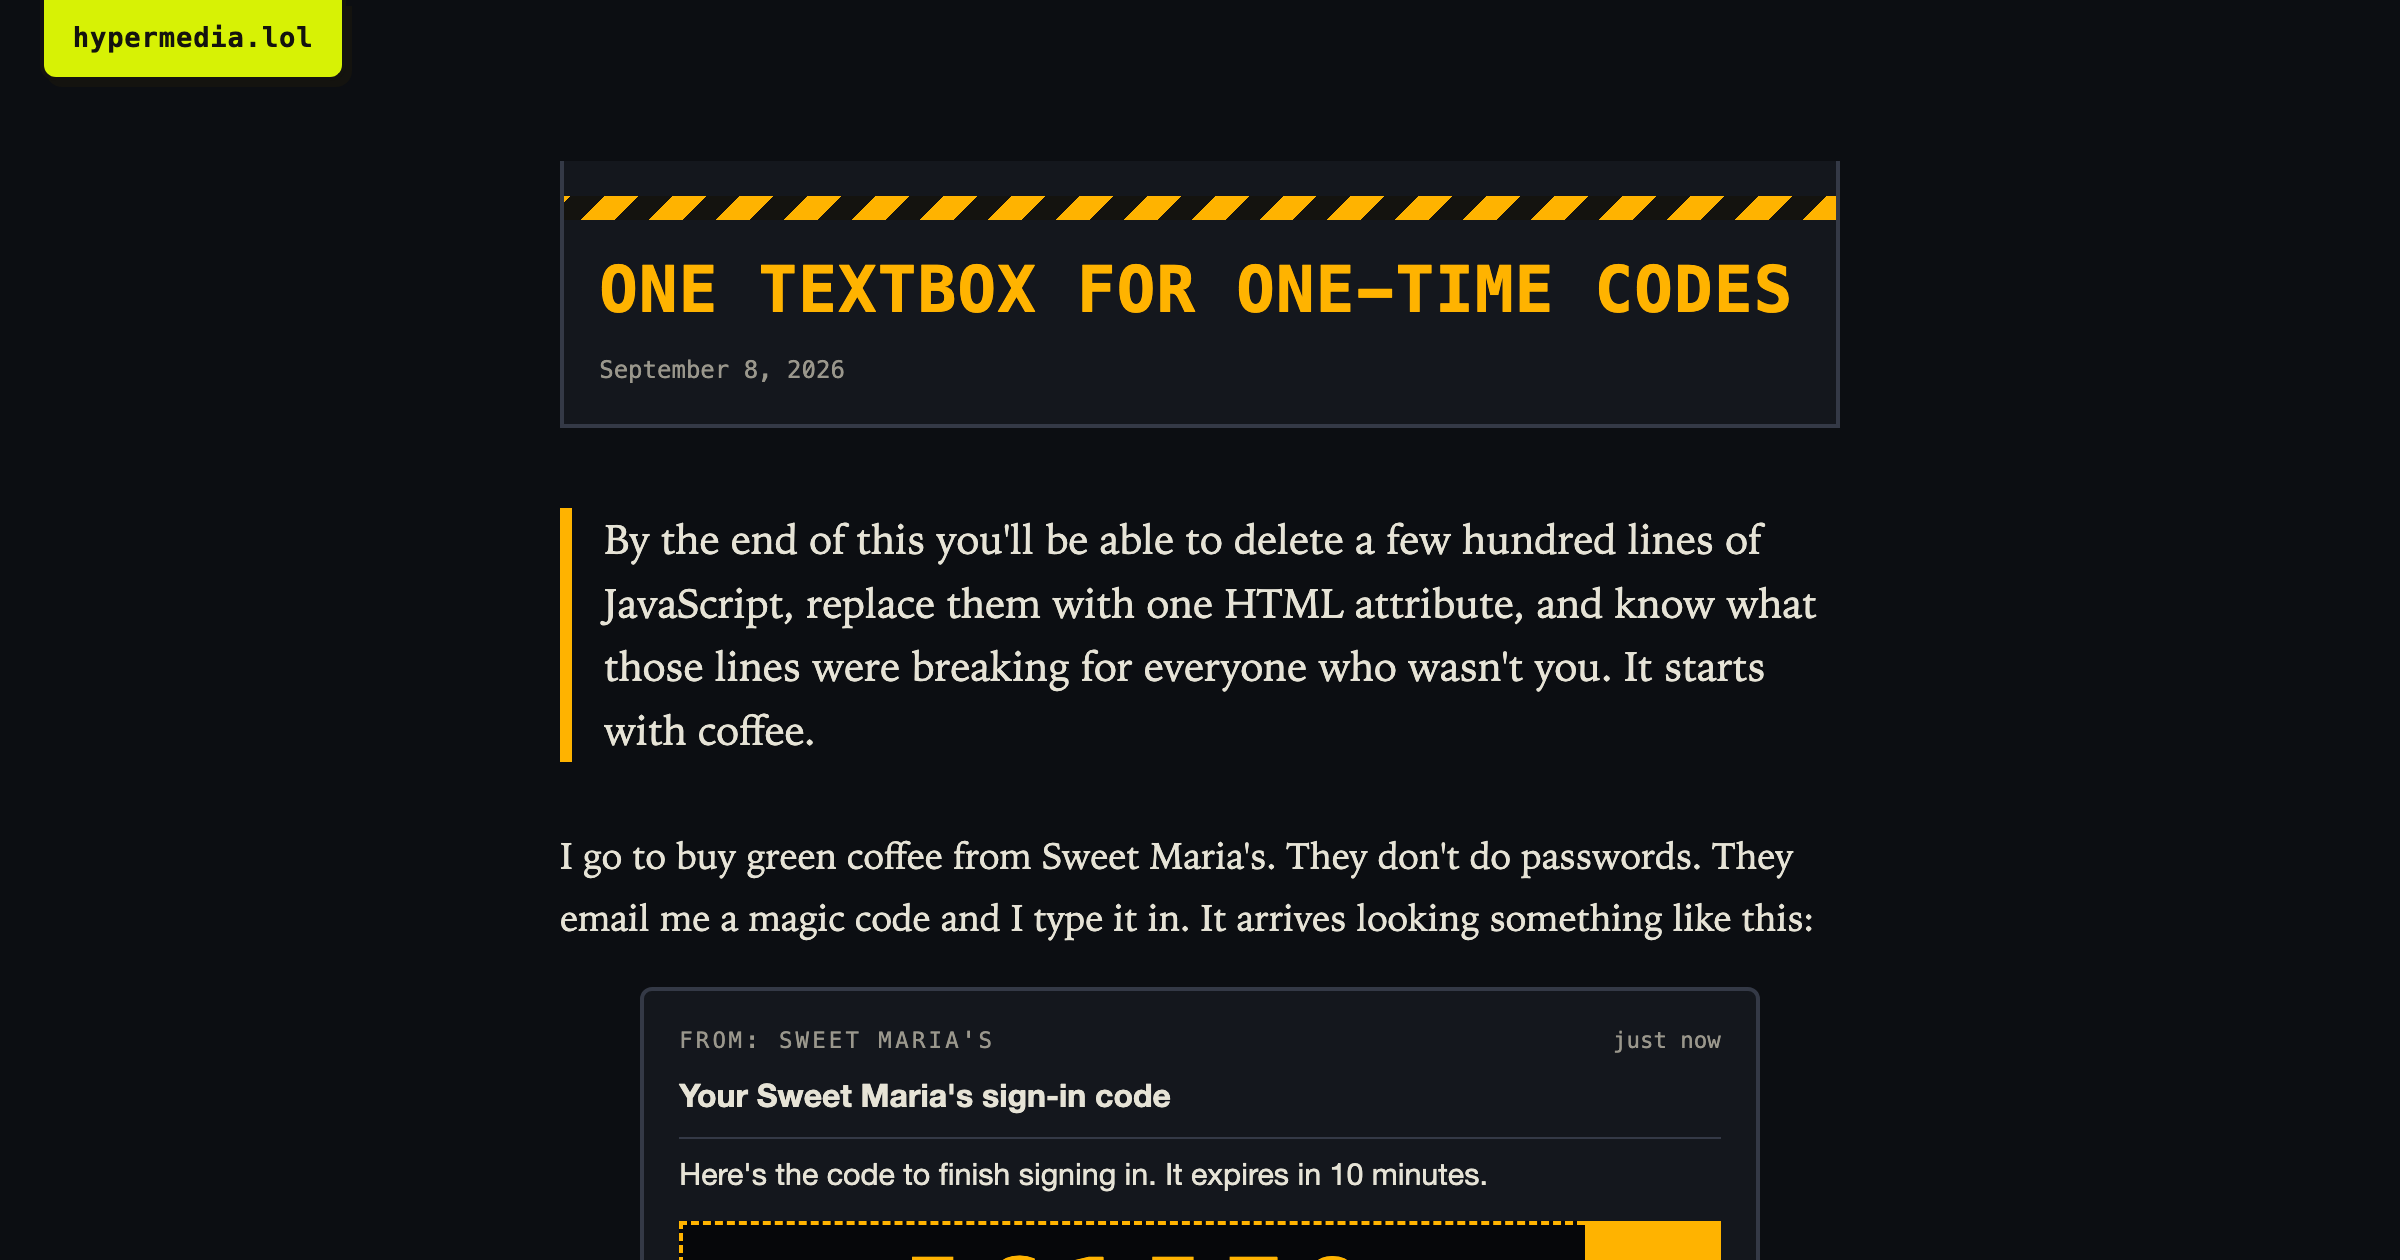
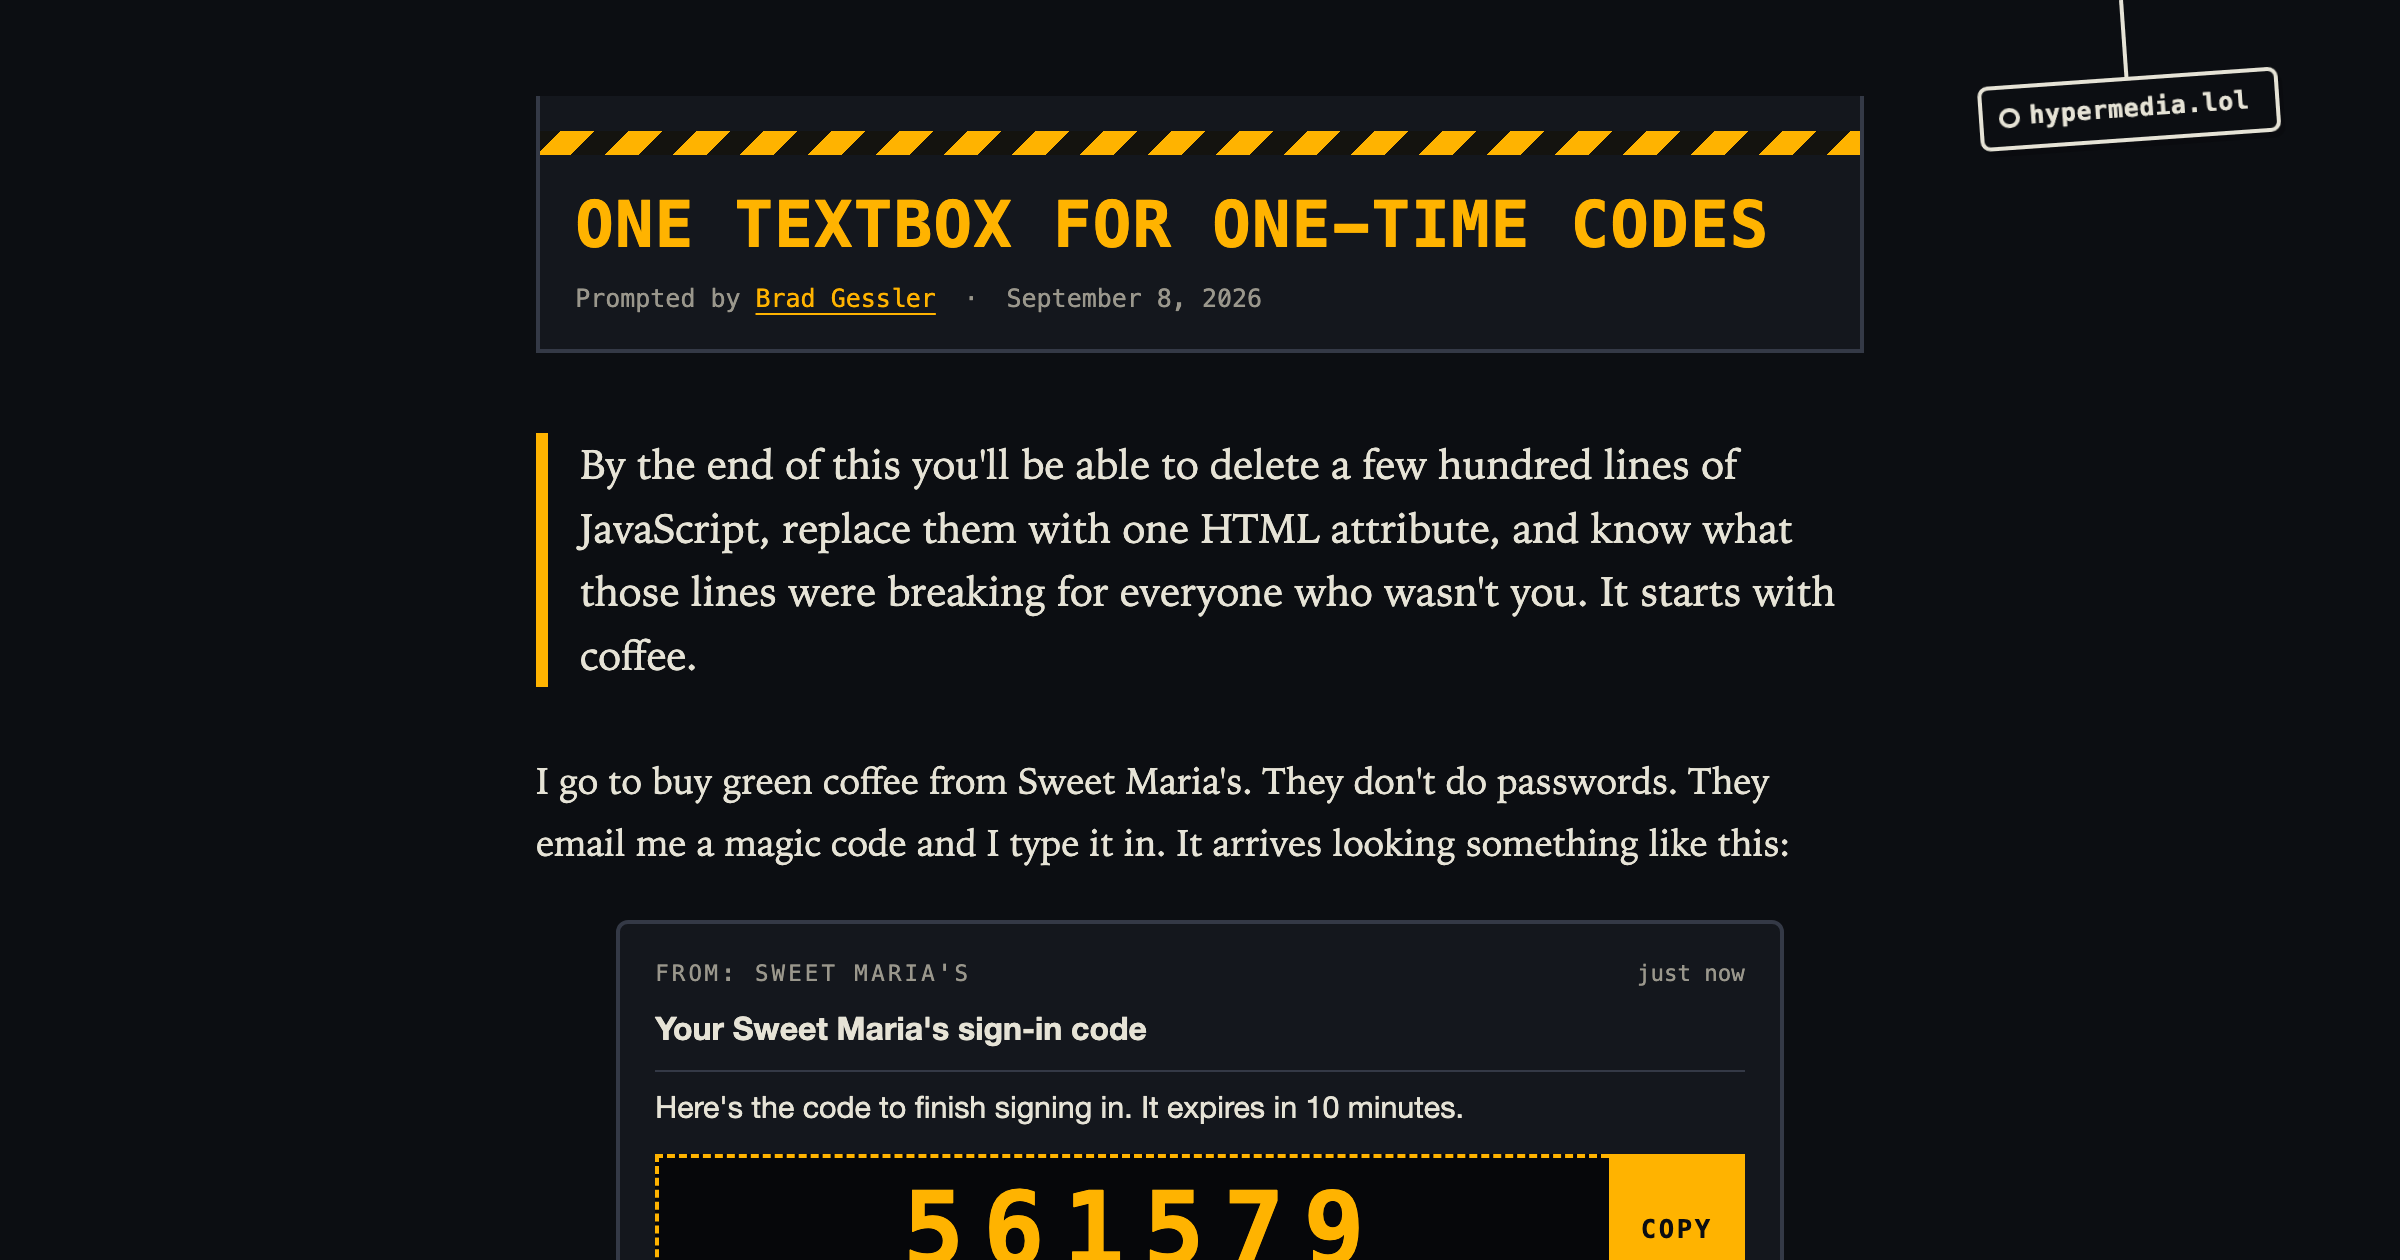
Hang a tag off the page instead of a bar; widen the prose
The mark is a luggage tag on a string off the top edge, drawn in the
page's own ink on its own paper so it adapts to light, dark and every
treatment without imposing a colour. It tilts, swings on hover, and
sits in a zero-height sticky block in normal flow.

The prose column is one notch wider in the base and every treatment.
The article's social card is regenerated for the new chrome.

Claude-Session: https://claude.ai/code/session_01EK9gcJ5CwKCKhnWw6ZRjDS

diff --git a/assets/stylesheets/site.css b/assets/stylesheets/site.css
@@ -45,37 +45,90 @@ body {
 }
 
 
-/* ------------------------------------------------------------ the topbar */
+/* --------------------------------------------------------------- the tag */
 
 /*
-  The one constant: a slim bar across the top of every page that sticks as
-  you scroll. Normal flow, position: sticky, nothing to fight. Its colours are
-  fixed on purpose so it reads the same over every treatment.
+  The one constant: a luggage tag hanging on a string off the top edge of every
+  page. It is drawn in the page's own ink on the page's own paper, so it adapts
+  to light and dark and to every treatment without imposing a colour of its
+  own. The wrapper is a zero-height sticky block in normal flow, so the tag
+  stays as you scroll with nothing positioned around it.
 */
-.topbar {
+.hang {
   position: sticky;
   top: 0;
   z-index: 10;
-  display: flex;
-  align-items: center;
-  justify-content: space-between;
-  gap: 1rem;
-  height: 2.5rem;
-  padding: 0 1.25rem;
-  background: #14130f;
-  color: #d7f205;
-  border-bottom: 2px solid #d7f205;
-  font-family: var(--mono);
-  font-size: 0.82rem;
+  height: 0;
 }
 
-.topbar a { color: inherit; text-decoration: none; }
-.topbar__home { font-weight: 700; letter-spacing: 0.03em; }
-.topbar__why { opacity: 0.8; }
-.topbar a:hover { text-decoration: underline; text-underline-offset: 3px; }
-.topbar a:focus-visible { outline: 2px solid #d7f205; outline-offset: 3px; }
+.tag {
+  position: absolute;
+  top: 0;
+  right: clamp(1rem, 6vw, 4rem);
+  display: block;
+  padding-top: 2.4rem;
+  color: var(--ink);
+  text-decoration: none;
+  transform-origin: 50% 0;
+  transform: rotate(-4deg);
+  transition: transform 600ms cubic-bezier(0.3, 1.7, 0.5, 1);
+}
 
-main { padding: 2.5rem 1.25rem 0; }
+/* The string. */
+.tag::before {
+  content: "";
+  position: absolute;
+  top: 0;
+  left: 50%;
+  width: 2px;
+  height: 2.4rem;
+  margin-left: -1px;
+  background: currentColor;
+}
+
+.tag__body {
+  position: relative;
+  display: block;
+  padding: 0.5rem 0.8rem 0.5rem 1.45rem;
+  border: 2px solid currentColor;
+  border-radius: 5px;
+  background: var(--paper);
+  font-family: var(--mono);
+  font-weight: 700;
+  font-size: 0.78rem;
+  line-height: 1;
+  letter-spacing: 0.03em;
+  white-space: nowrap;
+  box-shadow: 2px 3px 0 rgba(0, 0, 0, 0.18);
+}
+
+/* The punched hole the string goes through. */
+.tag__body::before {
+  content: "";
+  position: absolute;
+  left: 0.5rem;
+  top: 50%;
+  width: 0.4rem;
+  height: 0.4rem;
+  margin-top: -0.3rem;
+  border: 2px solid currentColor;
+  border-radius: 50%;
+}
+
+.tag:hover, .tag:focus-visible { transform: rotate(5deg); }
+.tag:focus-visible { outline: none; }
+.tag:focus-visible .tag__body { outline: 2px solid currentColor; outline-offset: 3px; }
+
+main { padding: 5.5rem 1.25rem 0; }
+
+@media (min-width: 64rem) {
+  main { padding-top: 3rem; }
+}
+
+@media (prefers-reduced-motion: reduce) {
+  .tag { transition: none; }
+  .tag:hover, .tag:focus-visible { transform: rotate(-4deg); }
+}
 
 /* --------------------------------------------------------- the why pitch */
 
@@ -392,7 +445,7 @@ a.tile:focus-visible { outline: 3px solid var(--ink); outline-offset: 3px; }
 
 /* ------------------------------------------------------------- articles */
 
-.prose { max-width: 36rem; margin: 0 auto; }
+.prose { max-width: 40rem; margin: 0 auto; }
 
 .banner {
   display: flex;
@@ -661,7 +714,7 @@ footer a:hover { color: var(--ink); }
   .t-spec { --accent: #7fa4ff; --paper: #0d0e12; --panel: #15171d; --rule: #2c3040; }
 }
 
-.t-spec .prose { max-width: 40rem; }
+.t-spec .prose { max-width: 44rem; }
 
 .t-spec .banner {
   display: block;
@@ -757,7 +810,7 @@ footer a:hover { color: var(--ink); }
   --rule: #2b382a;
 }
 
-.t-terminal .prose { max-width: 38rem; }
+.t-terminal .prose { max-width: 42rem; }
 
 .t-terminal .banner {
   position: relative;
@@ -853,7 +906,7 @@ footer a:hover { color: var(--ink); }
 }
 
 .t-zine .prose {
-  max-width: 38rem;
+  max-width: 42rem;
   padding: 1.75rem;
   background: var(--panel);
   border: 4px solid var(--rule);
@@ -915,7 +968,7 @@ footer a:hover { color: var(--ink); }
   background-size: 1.5rem 1.5rem;
 }
 
-.t-form .prose { max-width: 39rem; }
+.t-form .prose { max-width: 43rem; }
 
 .t-form .banner {
   position: relative;
@@ -1098,7 +1151,7 @@ footer a:hover { color: var(--ink); }
   --rule: #343946;
 }
 
-.t-launch .prose { max-width: 40rem; }
+.t-launch .prose { max-width: 44rem; }
 
 .t-launch .banner {
   display: block;
